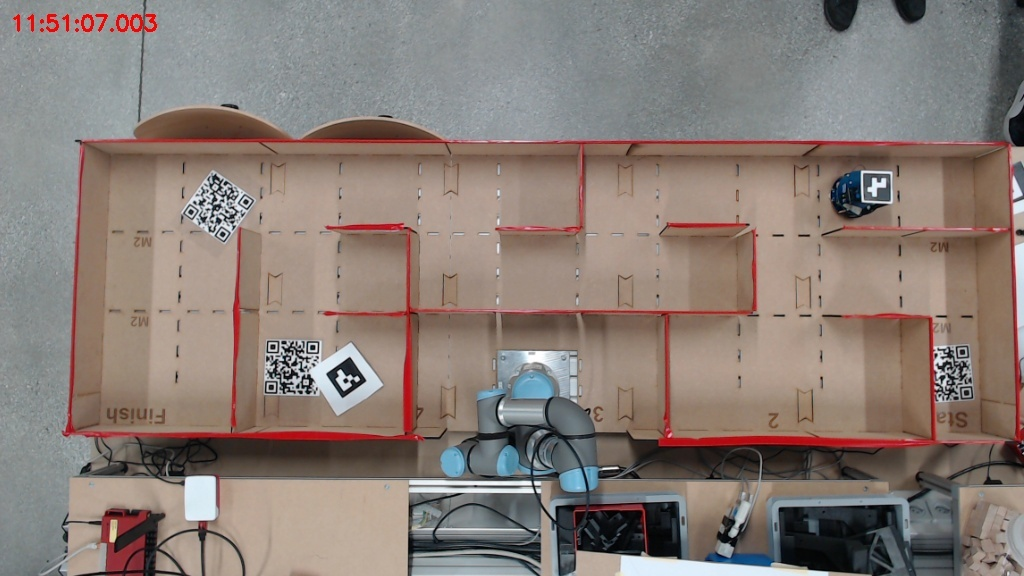
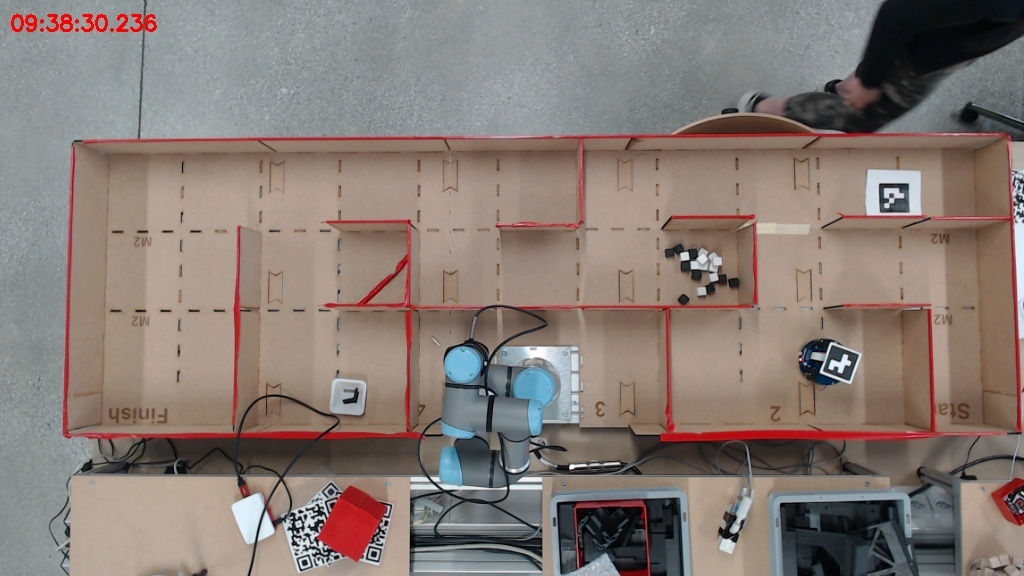
cube detection done

diff --git a/agent/__main__.py b/agent/__main__.py
@@ -21,7 +21,7 @@ from spade.agent import Agent
 from spade.behaviour import OneShotBehaviour, CyclicBehaviour
 from spade.message import Message
 from agent.alphabotlib.AlphaBot2 import AlphaBot2
-from agent.alphabotlib.test import detectAruco, detect_walls, load_points, build_transformation
+from agent.alphabotlib.test import detectAruco, detect_walls, load_points, build_transformation, detect_cubes_camera_agent
 from agent.nav_utils import generate_navmesh, find_path, SCALE as navmesh_scale
 
 # Configure logging
@@ -44,6 +44,30 @@ class AlphaBotAgent(Agent):
         self.alphabot = AlphaBot2()
         self.robot_name = name
         self.other_agent = "mael" if name == "gerald" else "gerald"
+        self.camera_handler = None  
+        self.vision_session = None
+        self.vision_input_name = None
+        self.camera_matrix = None
+        self.dist_coeffs = None
+        self.focal_length = None
+
+    async def setup(self):
+        logger.info(f"[Agent] AlphaBotAgent {self.jid} starting setup...")
+        logger.info(f"[Agent] Will connect as {self.jid} to server {os.environ.get('XMPP_SERVER', 'prosody')}")
+        
+        # Initialize camera and vision components once
+        logger.info("[Agent] Initializing camera and vision components...")
+        self.camera_handler = CameraHandler()
+        self.camera_handler.initialize_camera()
+        
+        # Load vision model and calibration
+        self.vision_session, self.vision_input_name = load_model('/agent/yolov5n.onnx')
+        self.camera_matrix, self.dist_coeffs, self.focal_length = load_calibration('/agent/camera_calibration.npz')
+        
+        logger.info("[Agent] Camera and vision components initialized.")
+        
+        self.add_behaviour(self.InitBehaviour())
+        logger.info("[Agent] Behaviors added, setup complete.")
 
     class RequestImageBehaviour(TimeoutBehaviour):
         async def run(self):
@@ -54,7 +78,6 @@ class AlphaBotAgent(Agent):
             msg.metadata = {"thread": thread_id}
             now = datetime.datetime.now()
             await self.send(msg)
-
 
             robot_id = 7
             goal_id = 0
@@ -79,14 +102,6 @@ class AlphaBotAgent(Agent):
                 logger.info(f"[Behavior] Received image message from {msg.sender}")
                 time_human = datetime.datetime.now().strftime("%H:%M:%S.%f")
                 logger.info(f"[Behavior] Message received at {time_human}")
-
-                # if str(msg.sender).startswith("camera_agent@"):
-                #     # forward the message to the other robot
-                #     logger.info(f"[Behavior] Forwarding image to {self.agent.other_agent}...")
-                #     forward_msg = Message(to=f"{self.agent.other_agent}@prosody")
-                #     forward_msg.body = msg.body
-                #     await self.send(forward_msg)
-                #     logger.info(f"[Behavior] Image forwarded to {self.agent.other_agent}.")
 
                 encoded_img = msg.body.split("image ")[1].strip()
 
@@ -150,7 +165,17 @@ class AlphaBotAgent(Agent):
                     )
                     next_waypoint_id += 1
                     dist_to_skip -= dist_to_next_waypoint
-
+                #do interpolation of points too close to each other
+                if dist_to_next_waypoint < 25:
+                    logger.info("[Behaviour] Next waypoint too close, interpolating")
+                    next_waypoint = (
+                        (next_waypoint[0] + ground_robot_pos[0]) / 2,
+                        next_waypoint[1],
+                        (next_waypoint[2] + ground_robot_pos[1]) / 2,
+                    )
+                    dist_to_next_waypoint = math.sqrt(
+                        (next_waypoint[0] - ground_robot_pos[0]) ** 2 + (next_waypoint[2] - ground_robot_pos[1]) ** 2
+                    )
                 time_to_move = self.agent.alphabot.get_move_time(dist_to_next_waypoint)
 
                 logger.info(f"[Behavior] Next waypoint: #{next_waypoint_id} {next_waypoint}")
@@ -216,7 +241,6 @@ class AlphaBotAgent(Agent):
 
                 #endregion 
 
-
                 if self.agent.alphabot.gotoing:
                     logger.info("[Behavior] Already going to a waypoint, skipping this message.")
                 else:
@@ -228,19 +252,42 @@ class AlphaBotAgent(Agent):
             request_image_behavior = self.agent.RequestImageBehaviour(start_at=now + delta)
             self.agent.add_behaviour(request_image_behavior)
     
-    class TestBehaviour(TimeoutBehaviour):
-        async def run(self):
-            logger.info("[Test] Running test behavior...")
-            await asyncio.sleep(5)
-            logger.info("[Test] Test behavior finished.")
-           
- 
-            now = datetime.datetime.now()
-            delta = datetime.timedelta(milliseconds=IMAGE_INTERVAL_MS)
-            request_image_behavior = self.agent.Test(start_at=now + delta)
-            self.agent.add_behaviour(request_image_behavior)
-
+    # class TestBehaviour(TimeoutBehaviour):
+    #     async def run(self):
+    #         logger.info("[Test] Running test behavior...")
             
+    #         try:
+    #             # Capture image using the pre-initialized camera handler
+    #             image = self.agent.camera_handler.capture_image()
+                
+    #             if image is not None:
+    #                 # Process the image with vision components
+    #                 results = detect_cubes(
+    #                     image=image,
+    #                     session=self.agent.vision_session,
+    #                     input_name=self.agent.vision_input_name,
+    #                     camera_matrix=self.agent.camera_matrix,
+    #                     dist_coeffs=self.agent.dist_coeffs,
+    #                     focal_length=self.agent.focal_length
+    #                 )
+                    
+    #                 logger.info(f"[Test] Vision detection results: {results}")
+                    
+    #                 # timestamp = datetime.datetime.now().strftime("%Y%m%d_%H%M%S")
+    #                 # filename = f"/agent/test_image_{timestamp}.jpg"
+    #                 # cv2.imwrite(filename, image)
+    #                 # logger.info(f"[Test] Saved test image to {filename}")
+    #             else:
+    #                 logger.warning("[Test] Failed to capture image from camera")
+                
+    #         except Exception as e:
+    #             logger.error(f"[Test] Error in test behavior: {str(e)}", exc_info=True)
+            
+    #         # Schedule the next run
+    #         now = datetime.datetime.now()
+    #         delta = datetime.timedelta(milliseconds=IMAGE_INTERVAL_MS)
+    #         next_test = self.agent.TestBehaviour(start_at=now + delta)
+    #         self.agent.add_behaviour(next_test)
 
     class InitBehaviour(OneShotBehaviour):
         async def request_image(self, name=None):
@@ -306,7 +353,7 @@ class AlphaBotAgent(Agent):
                 cv2.imwrite("/agent/navmesh_image_base.jpg", img0)
 
                 walls = detect_walls(img0)
-
+                cubes = detect_cubes_camera_agent(img0)
                 wall_scale_factor = 0.8
 
                 # Scale the walls to make them longer
@@ -332,7 +379,11 @@ class AlphaBotAgent(Agent):
                         for x1, y1, x2, y2 in walls 
                         for tx1, ty1 in [trans((x1, y1))]
                         for tx2, ty2 in [trans((x2, y2))]]
-
+                #Apply the homography transformation to the cubes
+                cubes = [[tx1, ty1, tx2, ty2]
+                        for x1, y1, x2, y2 in cubes
+                        for tx1, ty1 in [trans((x1, y1))]
+                        for tx2, ty2 in [trans((x2, y2))]]
                 walls_img = img0.copy()
                 for p in walls:
                     cv2.rectangle(
@@ -340,12 +391,19 @@ class AlphaBotAgent(Agent):
                     )  # Draw rectangles in red
                     cv2.circle(walls_img, (int(p[0]), int(p[1])), 5, (255, 0, 0), -1)
                     cv2.circle(walls_img, (int(p[2]), int(p[3])), 5, (0, 255, 0), -1)
-
+                # draw the cubes in blue
+                for p in cubes:
+                    cv2.rectangle(
+                        walls_img, (int(p[0]), int(p[1])), (int(p[2]), int(p[3])), (255, 0, 0), 2
+                    )
+                    cv2.circle(walls_img, (int(p[0]), int(p[1])), 5, (255, 0, 0), -1)
+                    cv2.circle(walls_img, (int(p[2]), int(p[3])), 5, (0, 255, 0), -1)
                 cv2.imwrite("/agent/walls_image.jpg", walls_img)
 
                 logger.info(f"[Step 0] Detected walls: {walls}")
                 before_time = time.time()
-                logger.info("[Step 0] Generating NavMesh...")
+                logger.info("[Step 0] Generating NavMesh...")                
+                walls += cubes
                 vertices, polygons = generate_navmesh(walls)
                 self.agent.navmesh = (vertices, polygons)
             
@@ -439,11 +497,7 @@ class AlphaBotAgent(Agent):
             
             logger.info(f"[Step 5] Calibration done. Set the robot in the initial position.")
 
-
-
             await asyncio.sleep(2)
-
-            
 
         async def on_end(self):
             logger.info("[Behavior] MoveAndMeasureBehaviour ended.")
@@ -457,63 +511,23 @@ class AlphaBotAgent(Agent):
             request_image_behavior = self.agent.RequestImageBehaviour(start_at=staggered_start_time)
             self.agent.add_behaviour(request_image_behavior)
 
-            test = self.agent.TestBehaviour(start_at=staggered_start_time)
-            self.agent.add_behaviour(test)
-
-
-            # ping_behavior = self.PingBehaviour(to=f"{self.other_agent}@prosody")
-            # self.add_behaviour(ping_behavior)
-            
-            # pong_behavior = self.PongBehaviour()
-            # self.add_behaviour(pong_behavior)
-            
-
-    async def setup(self):
-        logger.info(f"[Agent] AlphaBotAgent {self.jid} starting setup...")
-        logger.info(f"[Agent] Will connect as {self.jid} to server {os.environ.get('XMPP_SERVER', 'prosody')}")
-        
-        logger.info(f"[Agent] AlphaBotAgent {self.jid} setup starting...")
-       
-        self.add_behaviour(self.InitBehaviour())
-        logger.info("[Agent] Behaviors added, setup complete.") 
-
+            # test = self.agent.TestBehaviour(start_at=staggered_start_time)
+            # self.agent.add_behaviour(test)
 
     async def stop(self):
         logger.info(f"[Agent] Stopping AlphaBotAgent {self.jid}")
+        if self.camera_handler:
+            self.camera_handler.close_camera()
+            logger.info("[Agent] Camera handler closed.")
         await super().stop()
         logger.info("[Agent] Stopped.")
 
-# === MAIN ===
 async def main():
     xmpp_domain = os.environ.get("XMPP_DOMAIN", "prosody")
     xmpp_username = os.environ.get("XMPP_USERNAME")
     if not xmpp_username:
         logger.error("XMPP_USERNAME environment variable is not set.")
         return 
-    
-##Test camera api
-    camera_api = CameraHandler()
-    camera_api.initialize_camera()
-   
-    # Vision
-    session, input_name = load_model('/agent/yolov5n.onnx')
-    camera_matrix, dist_coeffs, focal_length = load_calibration('/agent/camera_calibration.npz')
- 
-    # Capture d’image depuis camera_api (déjà fait plus haut dans ton script)
-    image = camera_api.capture_image()
-   
-    #Detection
-    results = detect_cubes(
-        image=image,
-        session=session,
-        input_name=input_name,
-        camera_matrix=camera_matrix,
-        dist_coeffs=dist_coeffs,
-        focal_length=focal_length
-    )
- 
-    # Résultats
-    print(results)
     
     xmpp_jid = f"{xmpp_username}@{xmpp_domain}"
     xmpp_password = os.environ.get("XMPP_PASSWORD", "top_secret")

diff --git a/agent/alphabotlib/test.py b/agent/alphabotlib/test.py
@@ -487,6 +487,59 @@ def detect_walls(img):
 
     return polygons
 
+def detect_cubes_camera_agent(img):
+  
+    # Convert the image to HSV color space
+    hsv = cv2.cvtColor(img, cv2.COLOR_BGR2HSV)
+    kernel = np.ones((3, 3), np.uint8)
+
+    # Define the HSV range for black
+    lower_black = np.array([0, 0, 0])
+    upper_black = np.array([180, 255, 100])
+    mask = cv2.inRange(hsv, lower_black, upper_black)
+
+    # Add a mask to find white cubes
+    lower_white = np.array([0, 0, 200])
+    upper_white = np.array([180, 255, 255])
+    mask2 = cv2.inRange(hsv, lower_white, upper_white)
+
+    # Combine the masks
+    mask = cv2.bitwise_or(mask, mask2)
+    mask = cv2.morphologyEx(mask, cv2.MORPH_CLOSE, kernel)
+
+    # Invert the mask to make black areas white
+    inverted_mask = cv2.bitwise_not(mask)
+
+    # Create a blank white image
+    white_background = np.ones_like(img) * 255
+
+    # Find contours in the mask
+    contours, _ = cv2.findContours(mask, cv2.RETR_EXTERNAL, cv2.CHAIN_APPROX_SIMPLE)
+    # Filter contours based on area
+    min_area = 20  # Adjust this value as needed
+    max_area = 500
+    filtered_contours = [contour for contour in contours if min_area < cv2.contourArea(contour) < max_area]
+    # Draw all contours except the first
+    final_contours = []
+    for contour in filtered_contours[10:]:  # Skip the first contour
+        epsilon = 0.08 * cv2.arcLength(contour, True)
+        approx = cv2.approxPolyDP(contour, epsilon, True)
+
+        # Filter for quadrilateral shapes
+        if len(approx) == 4 and cv2.isContourConvex(approx):
+            final_contours.append(approx)
+            cv2.drawContours(white_background, [approx], -1, (0, 255, 0), 3)
+    polygons = []
+    # draw a rectangle around the detected contours
+    for contour in final_contours:
+        x, y, w, h = cv2.boundingRect(contour)
+        cv2.rectangle(white_background, (x, y), (x + w, y + h), (255, 0, 0), 2)  # Draw rectangles in blue    
+        polygons.append([x, y, x + w, y + h])
+    # Apply the inverted mask to the white background
+
+    
+    return polygons
+
 
 if __name__ == "__main__":
     # # Example color range for yellow

diff --git a/agent/camera_api.py b/agent/camera_api.py
@@ -8,30 +8,34 @@ class CameraHandler:
     def __init__(self, resolution=(640, 480)):
         self.resolution = resolution
         self.picam2 = None
-
+        
     def initialize_camera(self):
         try:
             self.picam2 = Picamera2()
-
-            camera_info = self.picam2.global_camera_info()
-            if not camera_info:
-                raise RuntimeError("Aucune caméra détectée !")
-
-            print(f"Caméra(s) détectée(s) : {camera_info}")
-
-            try:
-                self.picam2.stop()
-            except Exception as e:
-                print(f"Aucune instance active à arrêter : {e}")
-
-            self.picam2.configure(self.picam2.create_still_configuration(main={"size": self.resolution}))
+            
+            # Sensor mode selection (prioritize 1080p)
+            config = self.picam2.create_video_configuration(
+                main={
+                    "size": (1920, 1080),  # Optimal for OV5647
+                    "format": "BGR888",     # OpenCV-compatible
+                },
+                controls={
+                    "FrameRate": 30,        # Target 30fps
+                    "AwbEnable": True,      # Auto white balance  
+                    "AnalogueGain": 1.0,    # Reduce noise
+                },
+                queue=False,                # Reduce latency
+                buffer_count=4,             # Balance performance/memory
+            )
+            
+            self.picam2.configure(config)
             self.picam2.start()
-            time.sleep(1)
-
-        except RuntimeError as e:
-            print(f"Erreur d'accès à la caméra : {e}")
+            time.sleep(2)  # Warm-up for AWB/exposure
+            
+        except Exception as e:
+            print(f"Camera error: {e}")
             raise
-
+        
     def capture_image(self, convert_rgb=True):
         if self.picam2 is None:
             raise RuntimeError("Caméra non initialisée.")

diff --git a/agent/alphabotlib/AlphaBot2.py b/agent/alphabotlib/AlphaBot2.py
@@ -101,8 +101,8 @@ class AlphaBot2(object):
 				logger.info("Obstacle detected on the right. Turning left.")
 				self.turn_right(float(self.get_rotation_time(45)))  # Turn left for 90 degrees
 			else:
-				self.setPWMA(7.8)
-				self.setPWMB(7.8)
+				self.setPWMA(7.8*1.5)
+				self.setPWMB(7.8*1.5)
 				self.forward()
 				time.sleep(0.1)  # Move forward for a short time
 
